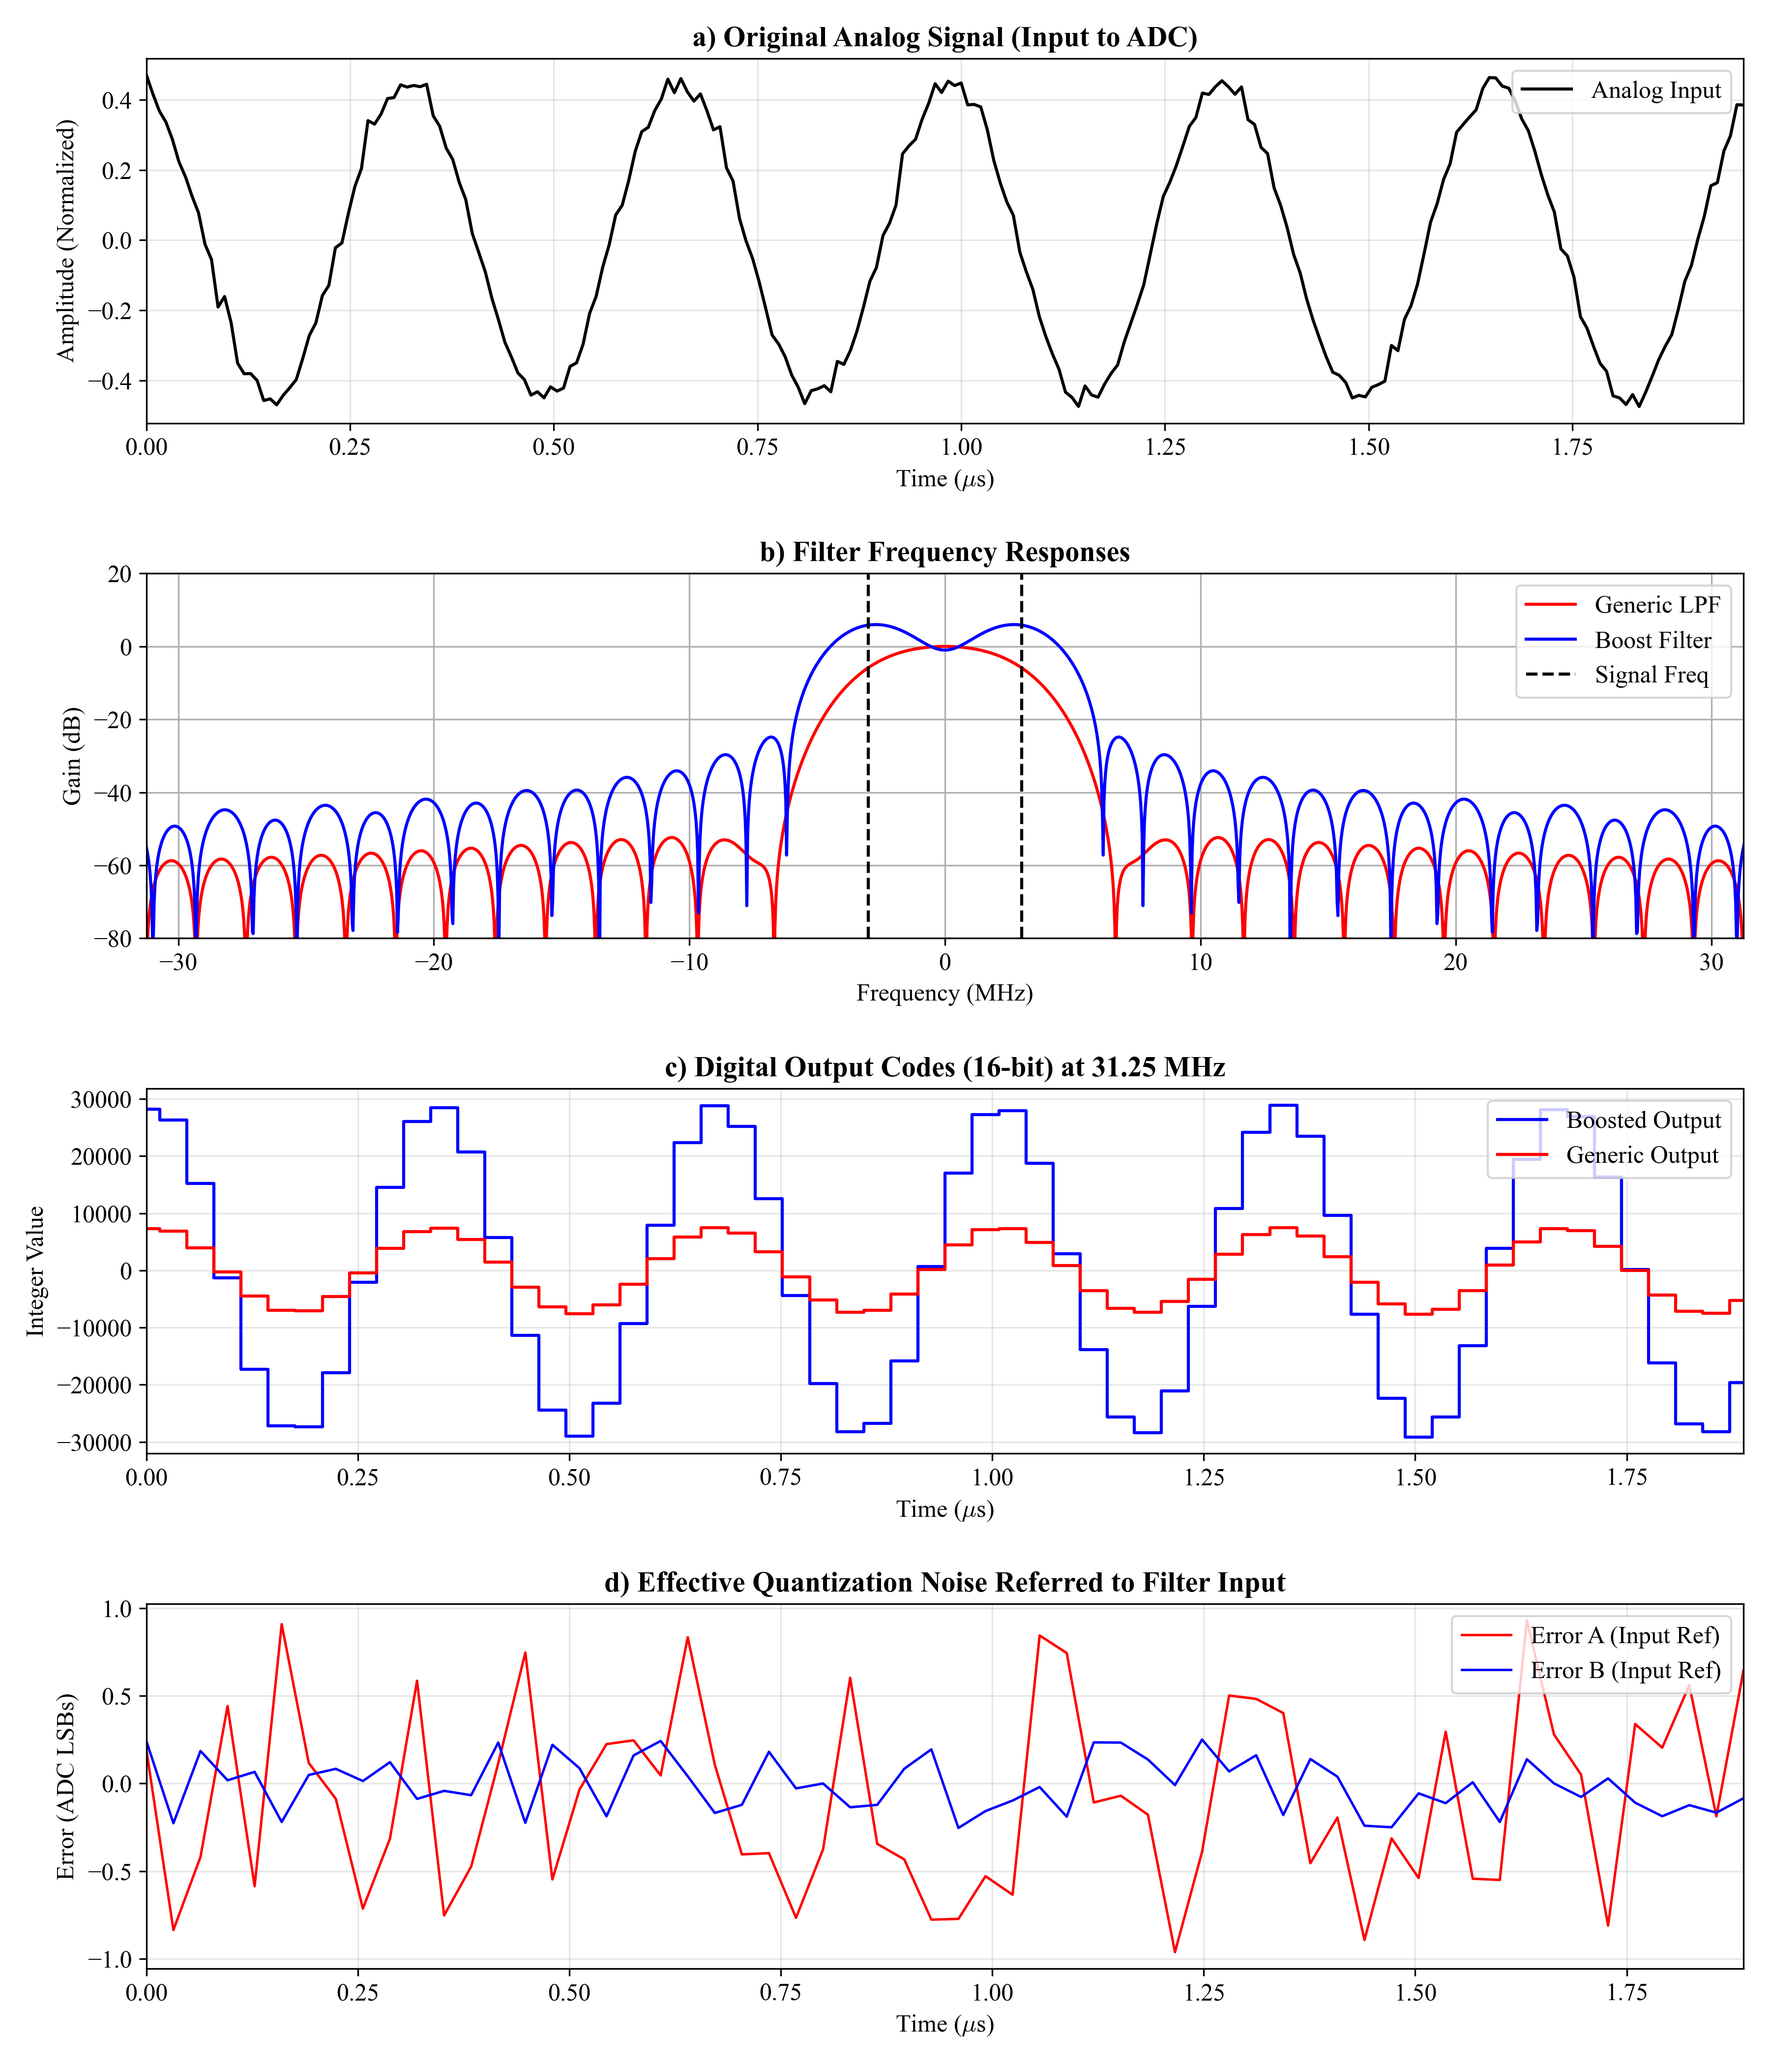
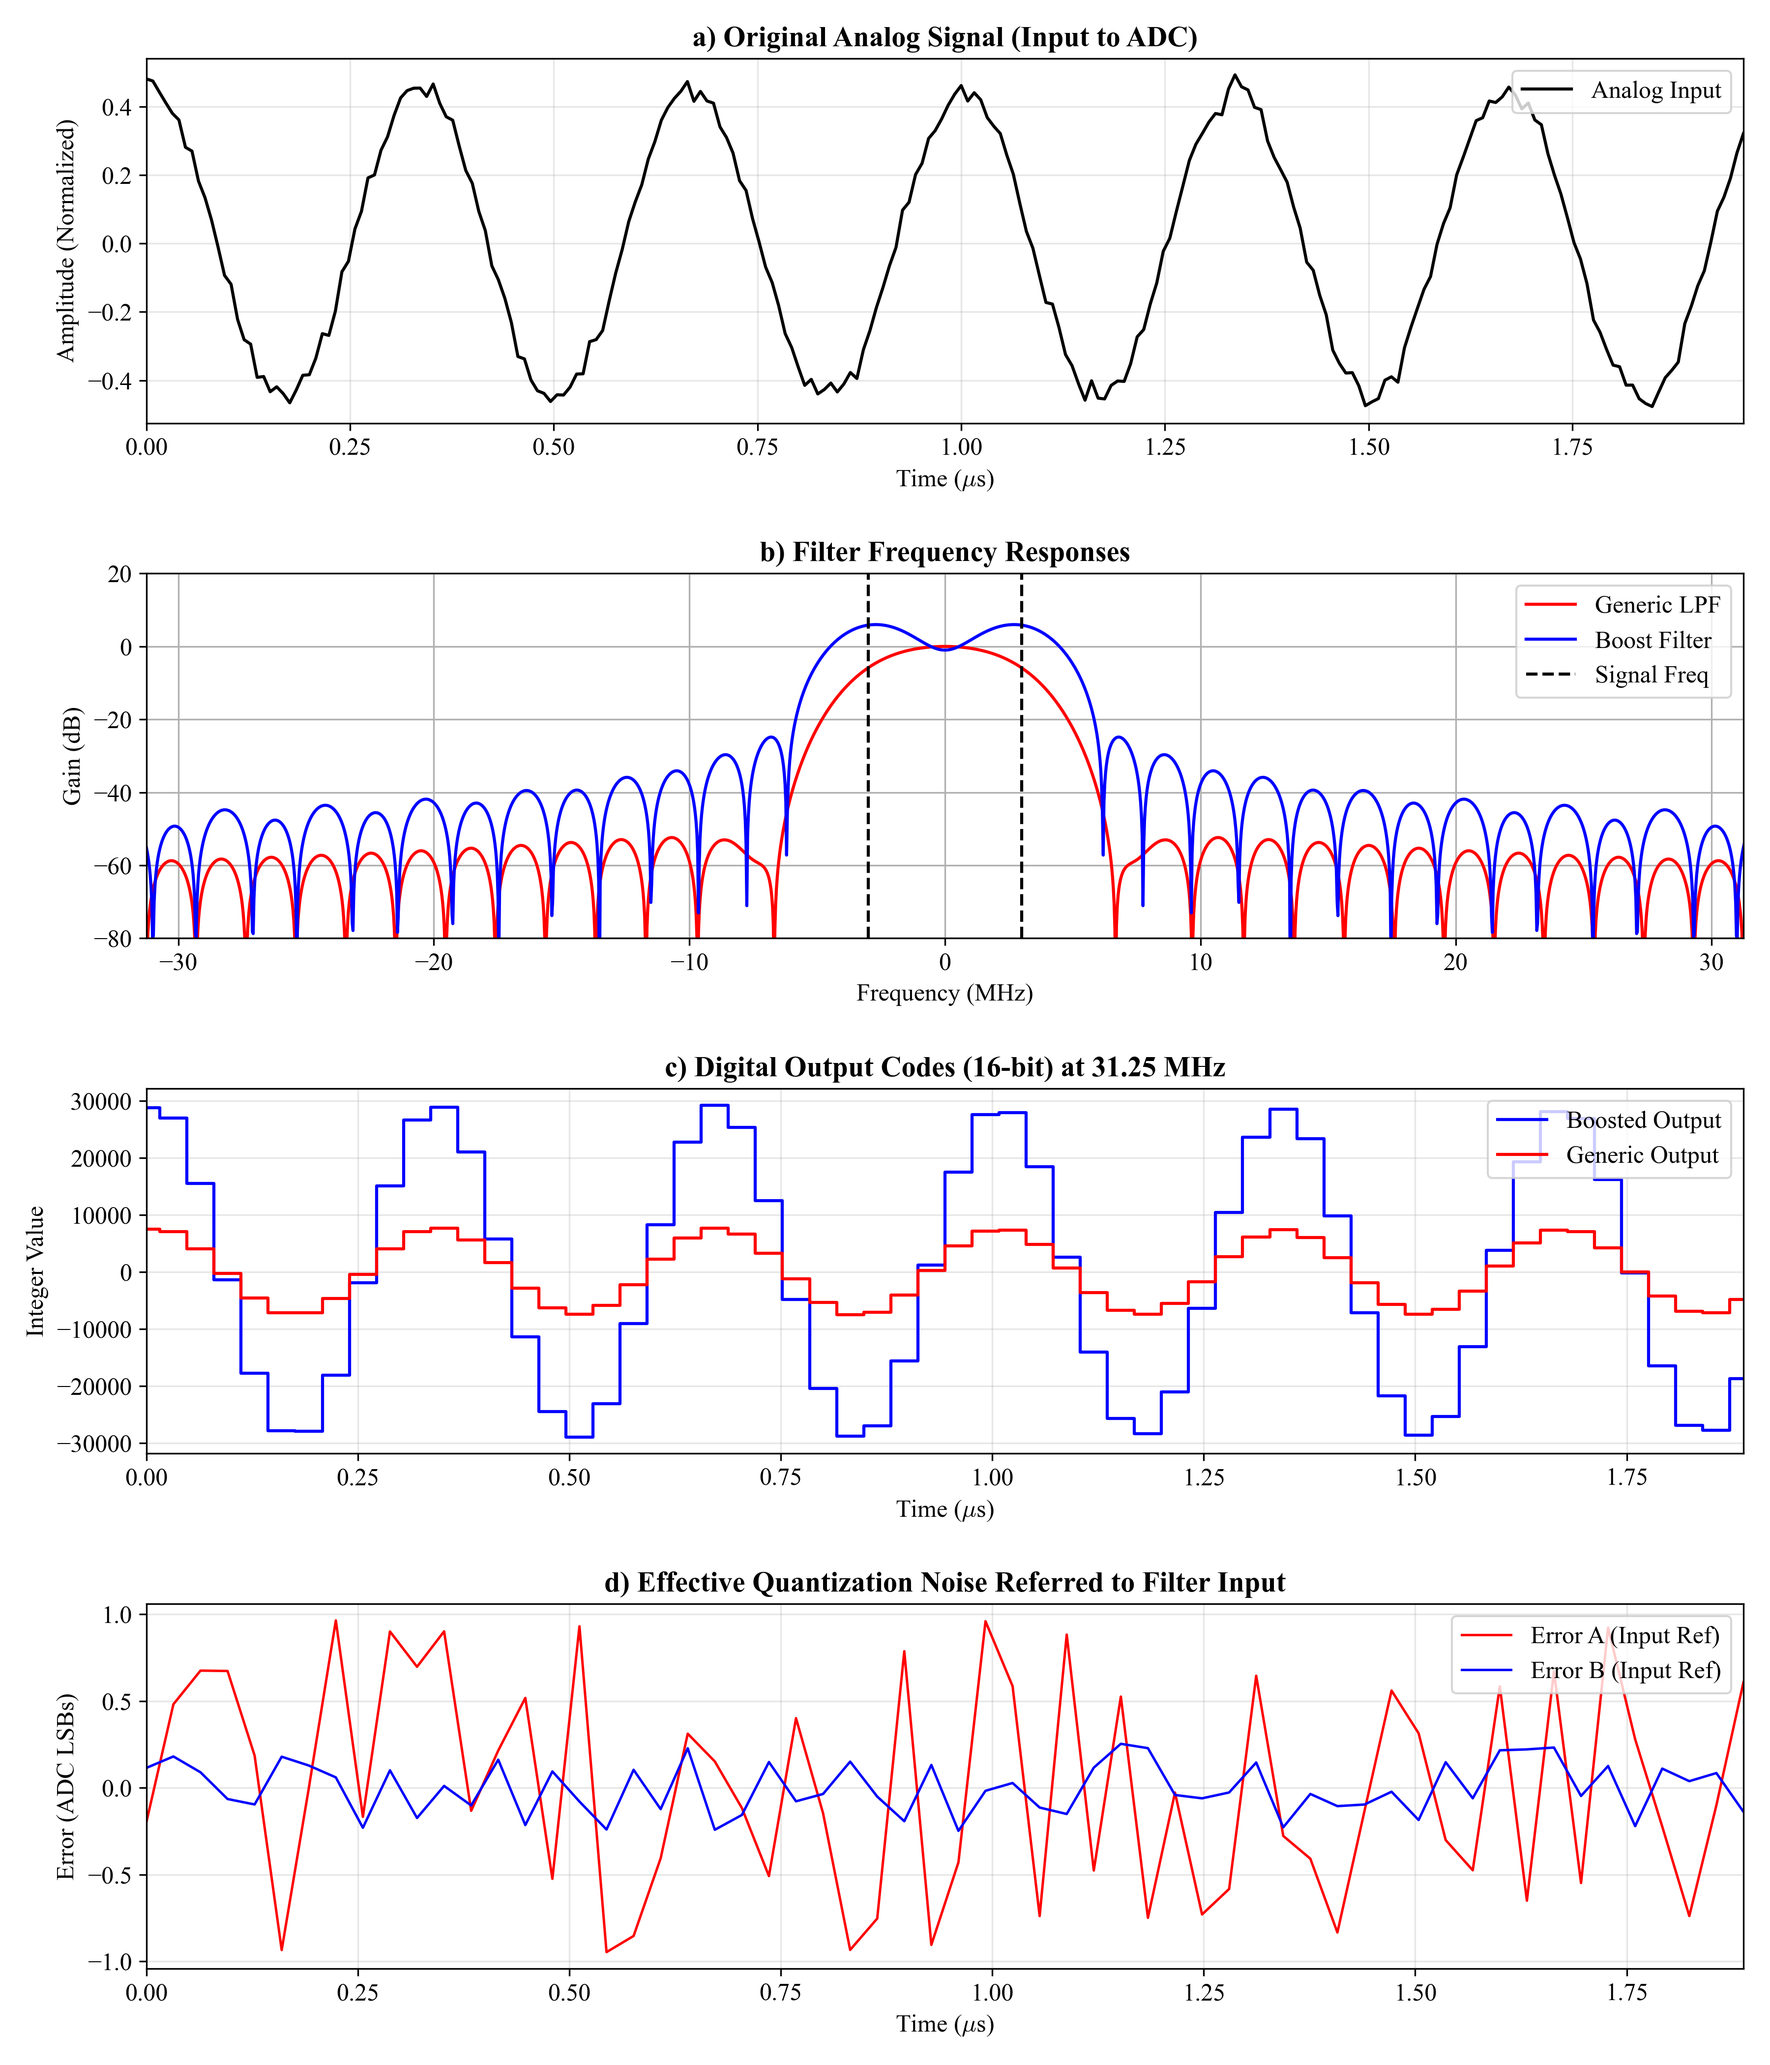
minor changes

diff --git a/simulator/filter_design/simulate_filter_correction.py b/simulator/filter_design/simulate_filter_correction.py
@@ -1,279 +1,3 @@
-# import numpy as np
-# import matplotlib.pyplot as plt
-# from scipy import signal
-# import sys
-
-# # ==============================================================================
-# # 0. Setup and Helpers
-# # ==============================================================================
-
-# def read_coeffs(filename, skip_lines):
-#     """Reads filter coefficients from a text file."""
-#     coeffs = []
-#     try:
-#         with open(filename, 'r') as f:
-#             lines = f.readlines()
-#             data_lines = lines[skip_lines:]
-#             for line in data_lines:
-#                 line = line.strip()
-#                 if line and not line.startswith('%'):
-#                     try:
-#                         coeffs.append(float(line))
-#                     except ValueError:
-#                         pass
-#         return np.array(coeffs)
-#     except FileNotFoundError:
-#         print(f"Error: {filename} not found.")
-#         sys.exit(1)
-
-# def quantize_to_int16(signal_float):
-#     """
-#     Simulates rounding to 16-bit integer range [-32768, 32767].
-#     Input is assumed to be normalized such that 1.0 = Full Scale.
-#     """
-#     scale_factor = 32767.0
-#     val_scaled = signal_float * scale_factor
-#     val_int = np.round(val_scaled)
-    
-#     # Check for clipping
-#     clip_mask = (val_int > 32767) | (val_int < -32768)
-#     if np.any(clip_mask):
-#         print(f"  WARNING: {np.sum(clip_mask)} samples clipped during quantization!")
-
-#     val_int = np.clip(val_int, -32768, 32767)
-#     return val_int
-
-# def calculate_sqnr(signal_power, noise_power):
-#     if noise_power == 0: return float('inf')
-#     return 10 * np.log10(signal_power / noise_power)
-
-# # ==============================================================================
-# # 1. Configuration & Loading
-# # ==============================================================================
-
-# FS_HIGH = 125e6       # 125 MHz
-# DECIMATION = 4
-# FS_LOW = FS_HIGH / DECIMATION # 31.25 MHz
-
-# # Frequency of interest (Bandwidth Edge)
-# F_CUTOFF = 3e6 
-
-# print("Loading Filter Coefficients...")
-# # Filter A: Generic LPF
-# coeffs_generic = read_coeffs('generic_lpf_coeffs.txt', skip_lines=6)
-# # Filter B: Boost Filter
-# coeffs_boost   = read_coeffs('boost_filter_coeffs.txt', skip_lines=7)
-
-# print(f"  Generic LPF: {len(coeffs_generic)} taps")
-# print(f"  Boost Filter: {len(coeffs_boost)} taps")
-
-# # Calculate precise gain of each filter at the cutoff frequency
-# w, h_A = signal.freqz(coeffs_generic, 1, worN=[F_CUTOFF], fs=FS_HIGH)
-# gain_A_linear = np.abs(h_A[0])
-
-# w, h_B = signal.freqz(coeffs_boost, 1, worN=[F_CUTOFF], fs=FS_HIGH)
-# gain_B_linear = np.abs(h_B[0])
-
-# print(f"  Gain A at {F_CUTOFF/1e6:.1f} MHz: {gain_A_linear:.4f} ({20*np.log10(gain_A_linear):.2f} dB)")
-# print(f"  Gain B at {F_CUTOFF/1e6:.1f} MHz: {gain_B_linear:.4f} ({20*np.log10(gain_B_linear):.2f} dB)")
-
-# # ==============================================================================
-# # 2. Signal Generation (The Physical World)
-# # ==============================================================================
-# n_samples = 4096
-# t = np.arange(n_samples) / FS_HIGH
-
-# # Channel Model: -6dB Attenuation at Cutoff
-# channel_atten_db = -6.0
-# channel_gain_linear = 10**(channel_atten_db/20.0) # 0.5
-
-# # Input Thermal Noise (-50dB SNR relative to full scale)
-# noise_db_fs = -35.0 
-# noise_std = 10**(noise_db_fs/20.0)
-# input_noise = np.random.normal(0, noise_std, n_samples)
-
-# # Signal: 0.9 Amplitude (Headroom) * Channel Attenuation
-# original_signal = 0.9 * np.sin(2 * np.pi * F_CUTOFF * t)
-# analog_input = (original_signal * channel_gain_linear) + input_noise
-
-# print(f"\nSignal Generation:")
-# print(f"  Input Peak: {np.max(np.abs(analog_input)):.4f} (Relative to FS 1.0)")
-
-# # ==============================================================================
-# # 3. ADC Quantization (First Quantization)
-# # ==============================================================================
-# adc_output_int = quantize_to_int16(analog_input)
-
-# # ==============================================================================
-# # 4. DSP Processing (High Precision Internal)
-# # ==============================================================================
-# # Filter A (Generic)
-# internal_A = signal.lfilter(coeffs_generic, 1.0, adc_output_int)
-# internal_A_dec = internal_A[::DECIMATION]
-
-# # Filter B (Boosted)
-# internal_B = signal.lfilter(coeffs_boost, 1.0, adc_output_int)
-# internal_B_dec = internal_B[::DECIMATION]
-
-# # ==============================================================================
-# # 5. Output Re-Quantization (Second Quantization)
-# # ==============================================================================
-# # Output A
-# output_A_int = np.clip(np.round(internal_A_dec), -32768, 32767)
-
-# # Output B
-# output_B_int = np.clip(np.round(internal_B_dec), -32768, 32767)
-
-# # ==============================================================================
-# # 6. Error Analysis (Input-Referred)
-# # ==============================================================================
-# error_A_out = internal_A_dec - output_A_int
-# error_B_out = internal_B_dec - output_B_int
-
-# error_A_in = error_A_out / gain_A_linear
-# error_B_in = error_B_out / gain_B_linear
-
-# signal_power = np.mean(adc_output_int[::DECIMATION]**2)
-# noise_power_A = np.mean(error_A_in**2)
-# noise_power_B = np.mean(error_B_in**2)
-
-# sqnr_A = calculate_sqnr(signal_power, noise_power_A)
-# sqnr_B = calculate_sqnr(signal_power, noise_power_B)
-
-# print("\n=== Results: Re-Quantization SQNR ===")
-# print(f"Scenario A (Standard): {sqnr_A:.2f} dB")
-# print(f"Scenario B (Boosted):  {sqnr_B:.2f} dB")
-# print(f"Improvement:           {sqnr_B - sqnr_A:.2f} dB")
-# print(f"Effective Bits Gained: {(sqnr_B - sqnr_A)/6.02:.2f} bits")
-
-# # ==============================================================================
-# # 7. Plotting Setup (Alignment & Styling)
-# # ==============================================================================
-
-# # --- A. Style Settings (LaTeX-like) ---
-# plt.rcParams.update({
-#     "font.family": "serif",
-#     "font.serif": ["Times New Roman", "Times", "DejaVu Serif", "serif"],
-#     "mathtext.fontset": "cm",  # Computer Modern for math
-#     "font.size": 12,
-#     "axes.labelsize": 12,
-#     "axes.titlesize": 14
-# })
-
-# # --- B. Automatic Peak Alignment ---
-# # We want both plots to start exactly at a signal peak to look aligned.
-
-# # 1. High Rate Alignment (Analog Input)
-# # Skip first 2 periods to avoid filter transients in the digital comparison later
-# samples_per_period_hi = int(FS_HIGH / F_CUTOFF)
-# search_start_hi = 3 * samples_per_period_hi 
-
-# # Find the first peak index in the search region
-# # We search one full period to find the local max
-# search_region_hi = analog_input[search_start_hi : search_start_hi + samples_per_period_hi]
-# peak_offset_hi = np.argmax(search_region_hi)
-# idx_start_hi = search_start_hi + peak_offset_hi
-
-# # Determine how many samples to show (e.g. 6 periods)
-# show_periods = 6
-# idx_end_hi = idx_start_hi + int(show_periods * samples_per_period_hi)
-
-# # Create zero-referenced time vector for plotting
-# t_plot_hi = (np.arange(idx_end_hi - idx_start_hi) / FS_HIGH) * 1e6 # in us
-
-# # 2. Low Rate Alignment (Digital Output)
-# # We align based on the Boosted signal (B) because it's cleaner
-# samples_per_period_lo = int(FS_LOW / F_CUTOFF)
-# search_start_lo = 3 * samples_per_period_lo
-
-# search_region_lo = output_B_int[search_start_lo : search_start_lo + samples_per_period_lo]
-# peak_offset_lo = np.argmax(search_region_lo)
-# idx_start_lo = search_start_lo + peak_offset_lo
-
-# idx_end_lo = idx_start_lo + int(show_periods * samples_per_period_lo)
-
-# # Create zero-referenced time vector for plotting
-# t_plot_lo = (np.arange(idx_end_lo - idx_start_lo) / FS_LOW) * 1e6 # in us
-
-# # --- C. Amplitude Check ---
-# print(f"\n[Check] Plot Amplitude Logic:")
-# print(f"  Source Amp: 0.9")
-# print(f"  Channel Gain: {channel_gain_linear:.2f} (-6 dB)")
-# print(f"  Expected ADC Input Peak: 0.9 * {channel_gain_linear:.2f} = {0.9 * channel_gain_linear:.3f}")
-# print(f"  (This explains why the analog plot peaks at ~0.45)")
-
-# # ==============================================================================
-# # 8. Plotting
-# # ==============================================================================
-# plt.figure(figsize=(12, 14)) # Slightly adjusted aspect ratio
-
-# # --- Plot 1: Original Analog Signal ---
-# plt.subplot(4, 1, 1)
-# # Plot the slice starting exactly at the peak
-# plt.plot(t_plot_hi, analog_input[idx_start_hi:idx_end_hi], 'k', linewidth=1.5, label='Analog Input')
-# plt.title(r"a) Original Analog Signal (Input to ADC)", fontweight="bold")
-# plt.ylabel("Amplitude (Normalized)")
-# plt.xlabel(r"Time ($\mu$s)")
-# plt.legend(loc='upper right', frameon=True)
-# plt.grid(True, alpha=0.3)
-# plt.xlim(0, t_plot_hi[-1])
-
-# # --- Plot 2: Filter Frequency Responses (Symmetric) ---
-# plt.subplot(4, 1, 2)
-# # Calculate response over full unit circle [0, 2pi) to get negative frequencies via fftshift
-# w_A, h_A = signal.freqz(coeffs_generic, 1, worN=4096, fs=FS_HIGH, whole=True)
-# w_B, h_B = signal.freqz(coeffs_boost, 1, worN=4096, fs=FS_HIGH, whole=True)
-
-# # Shift zero frequency to center
-# freqs_shifted = np.fft.fftshift(np.fft.fftfreq(4096, d=1/FS_HIGH))
-# h_A_shifted = np.fft.fftshift(h_A)
-# h_B_shifted = np.fft.fftshift(h_B)
-
-# plt.plot(freqs_shifted/1e6, 20*np.log10(np.abs(h_A_shifted) + 1e-12), 'r', linewidth=1.5, label='Generic LPF')
-# plt.plot(freqs_shifted/1e6, 20*np.log10(np.abs(h_B_shifted) + 1e-12), 'b', linewidth=1.5, label='Boost Filter')
-
-# # Mark cutoff
-# plt.axvline(F_CUTOFF/1e6, color='k', linestyle='--', label='Signal Freq')
-# plt.axvline(-F_CUTOFF/1e6, color='k', linestyle='--')
-
-# plt.title(r"b) Filter Frequency Responses", fontweight="bold")
-# plt.xlabel("Frequency (MHz)")
-# plt.ylabel("Gain (dB)")
-# plt.legend(loc='upper right', frameon=True, ncol=1) # Moved legend to avoid covering curve
-# plt.grid(True)
-# plt.xlim(-FS_LOW/1e6, FS_LOW/1e6) 
-# plt.ylim(-80, 20) # Adjusted ylim to look cleaner
-
-# # --- Plot 3: Digital Output Signals ---
-# plt.subplot(4, 1, 3)
-# plt.step(t_plot_lo, output_B_int[idx_start_lo:idx_end_lo], 'b', where='mid', linewidth=1.5,
-#          label=f'Boosted Output')
-# plt.step(t_plot_lo, output_A_int[idx_start_lo:idx_end_lo], 'r', where='mid', linewidth=1.5,
-#          label=f'Generic Output')
-
-# plt.title(r"c) Digital Output Codes (16-bit) at %.2f MHz" % (FS_LOW/1e6), fontweight="bold")
-# plt.ylabel("Integer Value")
-# plt.xlabel(r"Time ($\mu$s)")
-# plt.legend(loc='upper right', frameon=True)
-# plt.grid(True, alpha=0.3)
-# plt.xlim(0, t_plot_lo[-1])
-
-# # --- Plot 4: Input-Referred Error ---
-# plt.subplot(4, 1, 4)
-# plt.plot(t_plot_lo, error_A_in[idx_start_lo:idx_end_lo], 'r', linewidth=1.2, label='Error A (Input Ref)')
-# plt.plot(t_plot_lo, error_B_in[idx_start_lo:idx_end_lo], 'b', linewidth=1.2, label='Error B (Input Ref)')
-# plt.title(r"d) Effective Quantization Noise Referred to Filter Input", fontweight="bold")
-# plt.ylabel("Error (ADC LSBs)")
-# plt.xlabel(r"Time ($\mu$s)")
-# plt.legend(loc='upper right', frameon=True)
-# plt.grid(True, alpha=0.3)
-# plt.xlim(0, t_plot_lo[-1])
-
-# plt.tight_layout(h_pad=2.0)
-# plt.savefig('afe_filter_comparison.png', dpi=300) # Increased DPI for thesis quality
-# print("\nPlot saved to afe_filter_comparison.png")
-# plt.show()
-
 import numpy as np
 import matplotlib.pyplot as plt
 from scipy import signal
